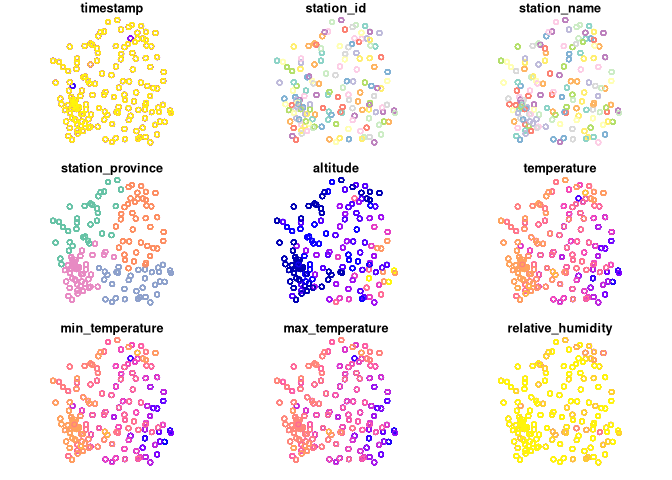
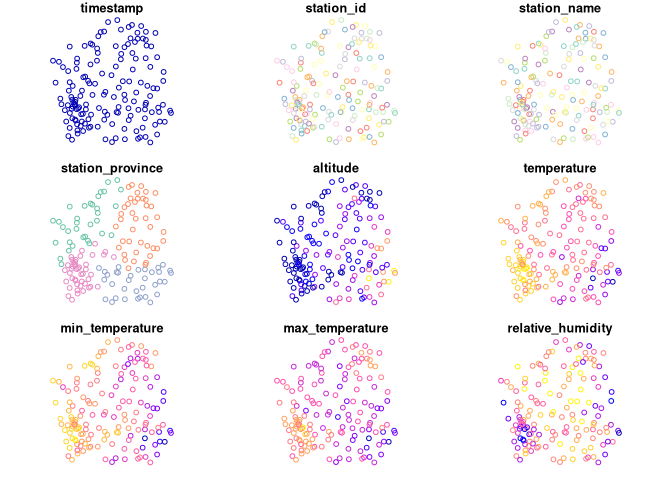
updated README

diff --git a/README.md b/README.md
@@ -44,42 +44,74 @@ mg_options <- meteogalicia_options(resolution = 'current_day')
 get_meteo_from('meteogalicia', mg_options)
 #> A información divulgada a través deste servidor ofrécese gratuitamente aos cidadáns para que poida ser  utilizada libremente por eles, co único compromiso de mencionar expresamente a MeteoGalicia e á  Consellería de Medio Ambiente, Territorio e Vivenda da Xunta de Galicia como fonte da mesma cada vez  que as utilice para os usos distintos do particular e privado.
 #> https://www.meteogalicia.gal/web/informacion/notaIndex.action
-#> Simple feature collection with 3663 features and 13 fields
+#> Simple feature collection with 3660 features and 13 fields
 #> Geometry type: POINT
 #> Dimension:     XY
 #> Bounding box:  xmin: -9.178318 ymin: 41.8982 xmax: -6.765224 ymax: 43.734
 #> Geodetic CRS:  WGS 84
-#> # A tibble: 3,663 x 14
+#> # A tibble: 3,660 x 14
 #>    timestamp           station_id station_name     station_province altitude
 #>    <dttm>              <chr>      <chr>            <chr>                 [m]
-#>  1 2021-05-12 12:00:00 10045      Mabegondo        A Coruña               94
-#>  2 2021-05-12 12:00:00 10046      Marco da Curra   A Coruña              651
-#>  3 2021-05-12 12:00:00 10047      Pedro Murias     Lugo                   51
-#>  4 2021-05-12 12:00:00 10048      O Invernadeiro   Ourense              1026
-#>  5 2021-05-12 12:00:00 10049      Corrubedo        A Coruña               30
-#>  6 2021-05-12 12:00:00 10050      CIS Ferrol       A Coruña               37
-#>  7 2021-05-12 12:00:00 10052      Muralla          A Coruña              661
-#>  8 2021-05-12 12:00:00 10053      Campus Lugo      Lugo                  400
-#>  9 2021-05-12 12:00:00 10055      Guitiriz-Mirador Lugo                  684
-#> 10 2021-05-12 12:00:00 10057      Alto do Rodicio  Ourense               981
-#> # … with 3,653 more rows, and 9 more variables: temperature [°C],
+#>  1 2021-05-12 13:00:00 10045      Mabegondo        A Coruña               94
+#>  2 2021-05-12 13:00:00 10046      Marco da Curra   A Coruña              651
+#>  3 2021-05-12 13:00:00 10047      Pedro Murias     Lugo                   51
+#>  4 2021-05-12 13:00:00 10048      O Invernadeiro   Ourense              1026
+#>  5 2021-05-12 13:00:00 10049      Corrubedo        A Coruña               30
+#>  6 2021-05-12 13:00:00 10050      CIS Ferrol       A Coruña               37
+#>  7 2021-05-12 13:00:00 10052      Muralla          A Coruña              661
+#>  8 2021-05-12 13:00:00 10053      Campus Lugo      Lugo                  400
+#>  9 2021-05-12 13:00:00 10055      Guitiriz-Mirador Lugo                  684
+#> 10 2021-05-12 13:00:00 10057      Alto do Rodicio  Ourense               981
+#> # … with 3,650 more rows, and 9 more variables: temperature [°C],
 #> #   min_temperature [°C], max_temperature [°C], relative_humidity [%],
 #> #   precipitation [L/m2], wind_direction [°], wind_speed [m/s], insolation [h],
 #> #   geometry <POINT [°]>
 ```
 
-Returned objects are spatial objects thanks to the
-[`sf`](https://r-spatial.github.io/sf/) R package. So we can easily plot
-the results directly.
+Stations info can be accessed with `get_stations_info_from` function:
+
+``` r
+get_stations_info_from('meteogalicia', mg_options)
+#> Simple feature collection with 154 features and 4 fields
+#> Geometry type: POINT
+#> Dimension:     XY
+#> Bounding box:  xmin: -9.178318 ymin: 41.8982 xmax: -6.765224 ymax: 43.734
+#> Geodetic CRS:  WGS 84
+#> # A tibble: 154 x 5
+#>    station_id station_name     station_province altitude                geometry
+#>  * <chr>      <chr>            <chr>                 [m]             <POINT [°]>
+#>  1 10157      Coruña-Torre de… A Coruña               21    (-8.409202 43.38276)
+#>  2 14000      Coruña-Dique     A Coruña                5    (-8.374706 43.36506)
+#>  3 10045      Mabegondo        A Coruña               94    (-8.262225 43.24137)
+#>  4 14003      Punta Langostei… A Coruña                5    (-8.531179 43.34723)
+#>  5 10144      Arzúa            A Coruña              362     (-8.17469 42.93196)
+#>  6 19005      Guísamo          A Coruña              175    (-8.276487 43.30799)
+#>  7 19012      Cespón           A Coruña               59    (-8.854571 42.67466)
+#>  8 10095      Sergude          A Coruña              231    (-8.461246 42.82283)
+#>  9 10800      Camariñas        A Coruña                5    (-9.178318 43.12445)
+#> 10 19001      Rus              A Coruña              134    (-8.685357 43.15616)
+#> # … with 144 more rows
+```
+
+Returned objects are spatial objects (thanks to the
+[`sf`](https://r-spatial.github.io/sf/) R package), so we can plot the
+results directly.
 
 ``` r
 library(sf)
 #> Linking to GEOS 3.9.1, GDAL 3.2.2, PROJ 8.0.0
+mg_options <- meteogalicia_options(resolution = 'daily', start_date = as.Date('2021-04-25'))
 plot(get_meteo_from('meteogalicia', mg_options))
 #> A información divulgada a través deste servidor ofrécese gratuitamente aos cidadáns para que poida ser  utilizada libremente por eles, co único compromiso de mencionar expresamente a MeteoGalicia e á  Consellería de Medio Ambiente, Territorio e Vivenda da Xunta de Galicia como fonte da mesma cada vez  que as utilice para os usos distintos do particular e privado.
 #> https://www.meteogalicia.gal/web/informacion/notaIndex.action
-#> Warning: plotting the first 9 out of 13 attributes; use max.plot = 13 to plot
+#> Warning: plotting the first 9 out of 15 attributes; use max.plot = 15 to plot
 #> all
 ```
 
 <img src="man/figures/README-plot_stations-1.png" width="100%" />
+
+``` r
+plot(get_stations_info_from('meteogalicia', mg_options))
+```
+
+<img src="man/figures/README-plot_stations-2.png" width="100%" />
